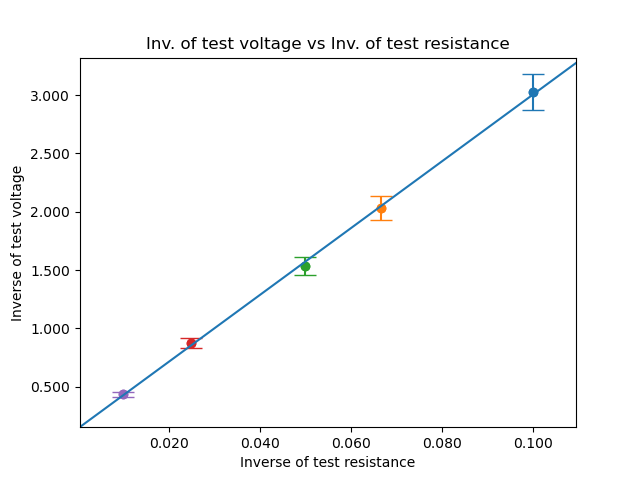
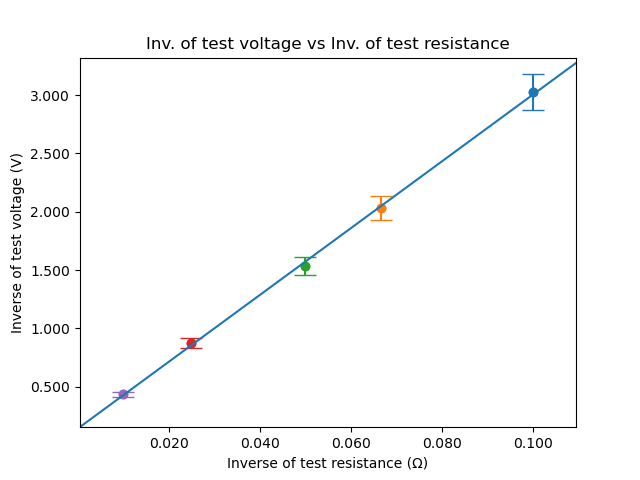
update lab b3 graph

Changed region(s): [[0.3438, 0.9375, 0.6562, 1.0], [0.0, 0.3125, 0.0625, 0.6875]]

diff --git a/labs/LabB3.py b/labs/LabB3.py
@@ -68,8 +68,8 @@ axisFormat = FormatStrFormatter("%%.%df" % AXES_DECIMAL_POINTS)
 def drawGraph(title):
     print("Drawing Graph: \"%s\"" % title)
     plt.title(title)
-    plt.ylabel("Inverse of test voltage")
-    plt.xlabel("Inverse of test resistance")
+    plt.ylabel("Inverse of test voltage (V)")
+    plt.xlabel("Inverse of test resistance (Ω)")
 
     gca = plt.gca()
     gca.yaxis.set_major_formatter(axisFormat)
